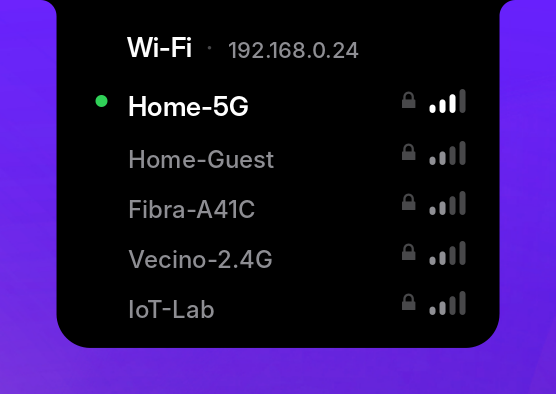
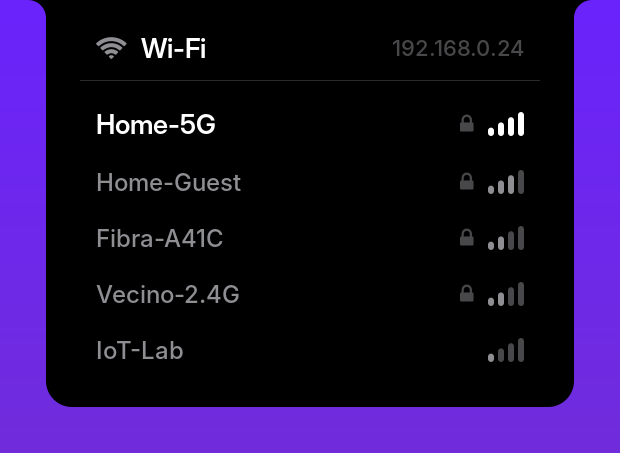
El mismo atajo cierra el panel, y el wifi del README ya es el de ahora
super + d otra vez cierra el lanzador, y lo mismo super + . y super + v
con los suyos.

No sale gratis: mientras un panel esta abierto tiene agarrado el
teclado, asi que sxhkd NO llega a ver la combinacion y no puede volver
a dispararla. La segunda pulsacion le llega a la isla como una tecla
normal, que es justo por lo que antes "super + d" escribia una "d" en
la busqueda. Ahora la isla mira el modificador: si viene con super, no
escribe nunca --con super lo que hay es un atajo, no texto- y si ademas
es la tecla que lo abrio, se cierra.

La tecla de cada panel vive en config.PANEL_TECLA y tiene que coincidir
con el sxhkdrc: la isla no puede preguntarsela a sxhkd, precisamente
porque mientras hay panel sxhkd no ve nada.

Imagenes:

- docs/panel-wifi.png estaba desactualizada desde el rediseno (punto
  verde, IP en linea, filas de ancho variable). Regenerada dibujando el
  panel con el propio renderizador sobre el mismo fondo violeta que las
  demas, y con redes y IP de ejemplo.

- docs/launcher.gif es nuevo y ensena el cierre. Empieza con la
  busqueda YA escrita a proposito: sin filtrar, el lanzador lista las
  ventanas abiertas, y eso en una captura publica son los titulos
  reales de lo que uno tenga delante. Es el mismo cuidado que ya tenia
  la imagen fija del lanzador.

Claude-Session: https://claude.ai/code/session_01XVYWSP19DR3ycNTVCStvp5

diff --git a/islandd.py b/islandd.py
@@ -1610,6 +1610,8 @@ class Island(Gtk.Window):
         return R.Row([R.Gap(sobra / 2.0), fila])
 
     def _key_emoji(self, ev):
+        if self._atajo_propio(ev, "emoji"):
+            return True
         st = self.emo
         kv = ev.keyval
         pag = T.EMO_COLS * T.EMO_FILAS
@@ -1839,6 +1841,8 @@ class Island(Gtk.Window):
                      w=ancho, padx=12, pady=7, tag="pp:%d" % i)
 
     def _key_port(self, ev):
+        if self._atajo_propio(ev, "portapapeles"):
+            return True
         st = self.port
         kv = ev.keyval
         if kv == Gdk.KEY_Escape:
@@ -2151,7 +2155,25 @@ class Island(Gtk.Window):
                 self.refresh()
         return True
 
+    def _atajo_propio(self, ev, panel):
+        """Gestiona una pulsacion CON super mientras hay panel abierto.
+
+        Devuelve True si ya esta tratada. Dos cosas, y las dos hacen
+        falta: si es el mismo atajo que lo abrio, se cierra; y en
+        cualquier caso no se escribe en el campo, porque con super
+        pulsado lo que hay es un atajo, no texto.
+        """
+        if not (ev.state & Gdk.ModifierType.MOD4_MASK):
+            return False
+        nombre = C.PANEL_TECLA.get(panel)
+        if nombre and ev.keyval == Gdk.keyval_from_name(nombre):
+            self._close_panel()
+            self.refresh()
+        return True
+
     def _key_launcher(self, ev):
+        if self._atajo_propio(ev, "launcher"):
+            return True
         st = self.launch
         kv = ev.keyval
         if kv == Gdk.KEY_Escape:

diff --git a/config.py b/config.py
@@ -162,3 +162,18 @@ CAPTURA_ESPERA = 0.40
 # no pinta NADA encima: solo cambia el cursor y traza una linea fina al
 # arrastrar, asi que al pulsar el atajo parece que no ha pasado nada.
 CAPTURA_SELECTOR = "isla"
+
+# ------------------------------------------------- atajos de los paneles
+# La tecla de cada panel, para que repetir su atajo lo CIERRE.
+#
+# Tiene que coincidir con tu sxhkdrc, y la isla no puede preguntarselo:
+# mientras un panel esta abierto tiene agarrado el teclado, asi que
+# sxhkd no llega a ver la combinacion y no puede volver a dispararla.
+# La segunda pulsacion le llega a la isla como una tecla normal --por
+# eso "super + d" con el lanzador abierto escribia una "d" en la
+# busqueda- y es ella quien decide cerrarse.
+PANEL_TECLA = {
+    "launcher":     "d",
+    "emoji":        "period",
+    "portapapeles": "v",
+}

diff --git a/README.md b/README.md
@@ -110,11 +110,24 @@ menú de sesión.
   <img src="docs/launcher.png" alt="Lanzador: campo de búsqueda, resultado destacado en grande con su icono y tipo, y debajo la lista con el tipo de cada resultado alineado a la derecha" width="620">
 </p>
 
+<p align="center">
+  <img src="docs/launcher.gif" alt="El lanzador con una búsqueda escrita; al volver a pulsar super y d se cierra y el notch se repliega" width="760">
+</p>
+
 **Lanzador.** Aplicaciones, ventanas abiertas, una calculadora, ejecución de
 comandos y lo último que has copiado, en una sola lista ordenada por
 relevancia y por uso. Las ventanas
 van primero a propósito: en un gestor de mosaico lo que sueles querer es
 saltar a algo que ya tienes abierto, no abrir otra instancia.
+
+**El mismo atajo lo cierra.** `super + d` otra vez y se va, igual que
+`super + .` y `super + v` con los suyos. Tiene miga: mientras un panel está
+abierto tiene agarrado el teclado, así que sxhkd **no llega a ver** la
+combinación y no puede volver a dispararla. La segunda pulsación le llega a la
+isla como una tecla normal --por eso antes `super + d` escribía una `d` en la
+búsqueda- y es ella quien decide cerrarse. La tecla de cada panel está en
+`config.PANEL_TECLA`, y tiene que coincidir con tu `sxhkdrc` porque la isla no
+puede preguntárselo a nadie.
 
 La calculadora no usa `eval()`: recorre el árbol de sintaxis y rechaza
 cualquier nodo que no sea aritmética. Un lanzador evaluando lo que tecleas
